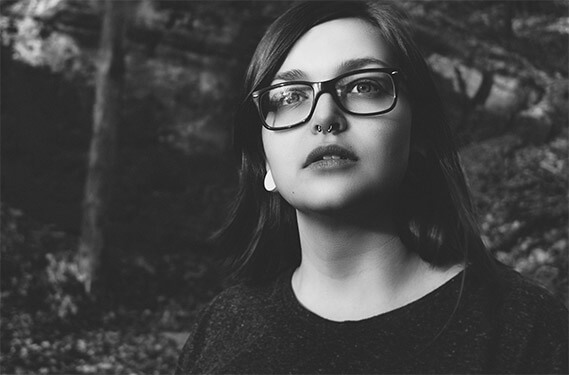
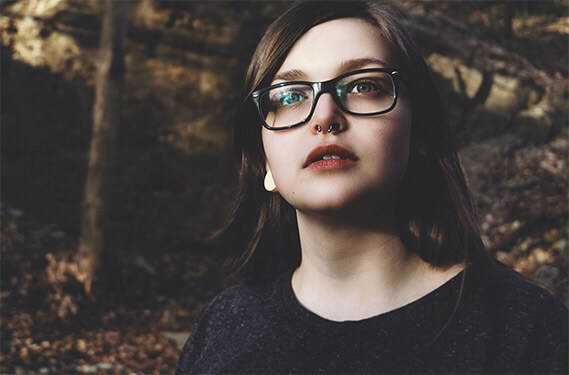
Colored images in reviews with grayscale filter.

diff --git a/css/main.css b/css/main.css
@@ -350,7 +350,9 @@ ul {
   height: 100%;
   background-repeat: no-repeat;
   background-size: cover;
-  background-position: center center; }
+  background-position: center center;
+  -webkit-filter: grayscale(100%);
+  filter: grayscale(100%); }
 
 .reviews__content {
   display: -webkit-box;

diff --git a/scss/sections/_reviews.scss b/scss/sections/_reviews.scss
@@ -16,6 +16,7 @@
     background-repeat: no-repeat;
     background-size: cover;
     background-position: center center;
+    filter: grayscale(100%);
 }
 
 .reviews__content {
